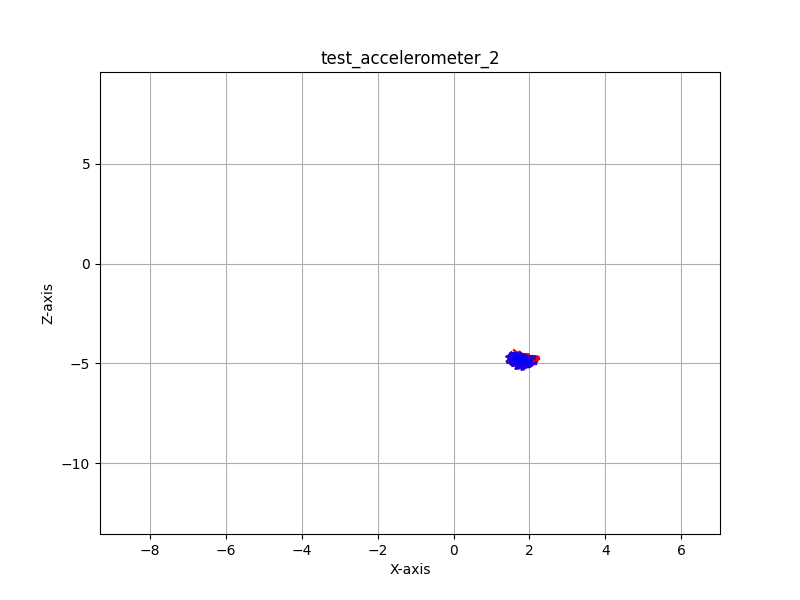
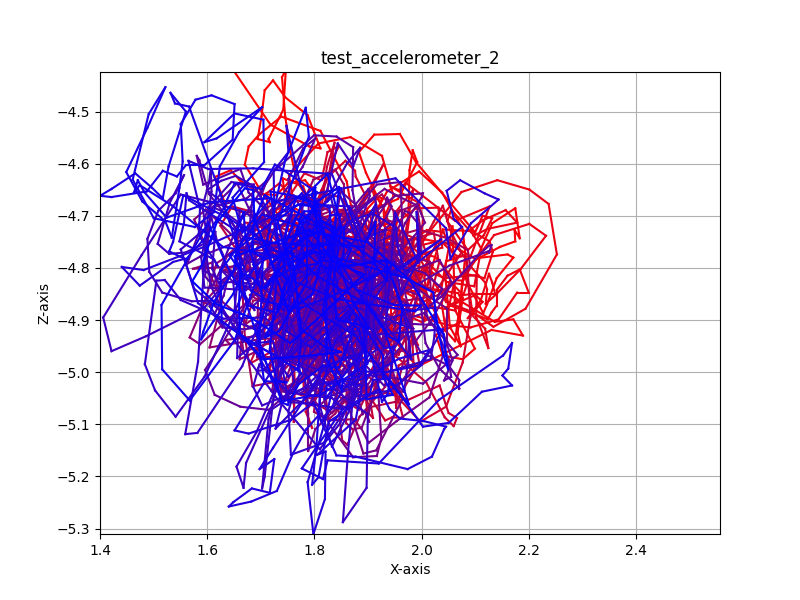
Scaling
Edited the scaling of the range of the axes

diff --git a/accelerometer_plotter.py b/accelerometer_plotter.py
@@ -1,6 +1,8 @@
 import numpy as np
+import pandas as pd
 import matplotlib.pyplot as plt
 from matplotlib.colors import LinearSegmentedColormap
+from sklearn.preprocessing import StandardScaler
 import os
 
 #Read the data of a file and format the time, x and z columns into numpy arrays
@@ -28,6 +30,13 @@ def readData(filename):
 def plotData(x, z, trial_name):
     plt.figure(figsize=(8, 6))
 
+    #standardizations
+    #df = pd.DataFrame({x,z})
+    #df = pd.DataFrame()
+    #scaler = StandardScaler()
+    #x = scaler.transform(x)
+    #z = scaler.transform(z)
+
     #colormap of red->purple->blue
     colors = [(1, 0, 0), (0.5, 0, 0.5), (0, 0, 1)]
     cmap = LinearSegmentedColormap.from_list("RedPurpleBlue", colors, N=len(x))
@@ -44,8 +53,10 @@ def plotData(x, z, trial_name):
     plt.title(f"{trial_name}")
     plt.xlabel("X-axis")
     plt.ylabel("Z-axis")
-    plt.xlim(-9.321824073791504, 7.024587631225586)
-    plt.ylim(-13.535619735717773, 9.587580680847168)
+    #plt.xlim(-5, 5)
+    #plt.ylim(-5, 5)
+    plt.xlim(min(x), min(x) + 2*0.5791059634019134)
+    plt.ylim(min(z), min(z) + 2*0.44316919018461937)
     plt.grid(True)
     plt.savefig(trial_name + ".png")
     plt.close()
@@ -55,7 +66,7 @@ def plotData(x, z, trial_name):
 
 def main():
     #Change the following line to change the directory this script is worked in
-    directory = "E://MARL Project Repo//MARL_accelerometer_script"
+    directory = "C://Users//conbo//Documents//GitHub//MARL_accelerometer_script" #"E://MARL Project Repo//MARL_accelerometer_script"
 
     os.chdir(directory)
     for file in os.listdir():
